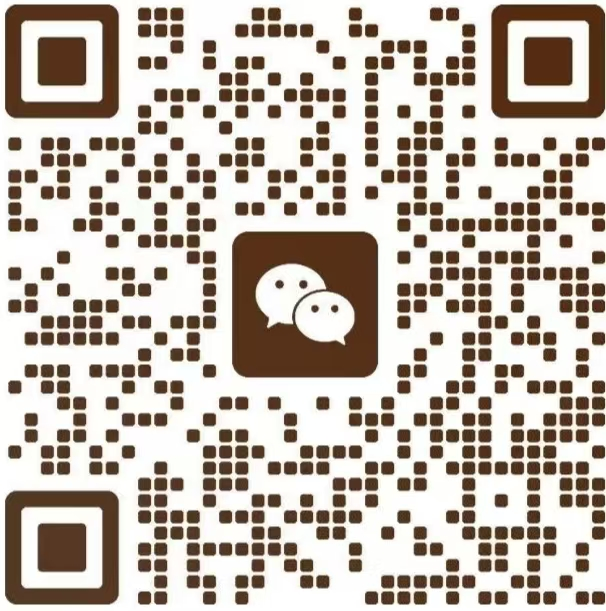
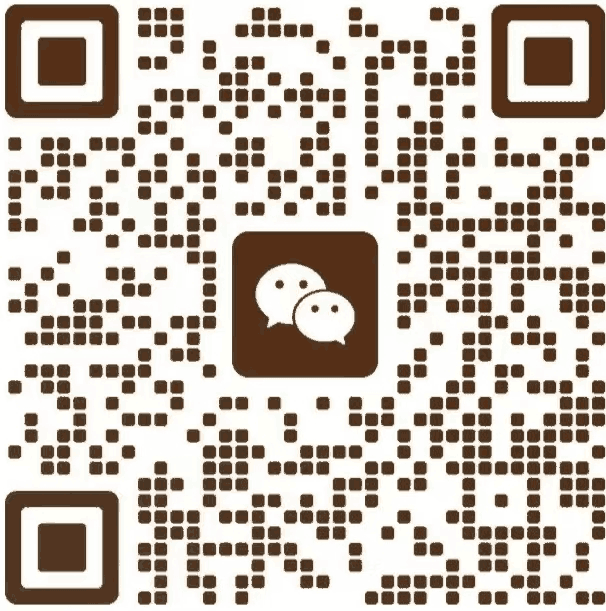
perf(images): 压缩 gllogistics.net 全站图片，总量 23.8MB->~1.8MB，首页负载~9.4MB->~0.5MB

diff --git a/service-zones.html b/service-zones.html
@@ -35,7 +35,7 @@
 
 <!-- Page Hero -->
 <section class="page-hero">
-  <img src="images/hero-zones.png" alt="Global Logistics Network Map">
+  <img src="images/hero-zones.jpg" alt="Global Logistics Network Map">
 </section>
 
 <!-- Service Zones Content -->
@@ -54,21 +54,21 @@
 
       <!-- Oceania -->
       <div class="col-card">
-        <img src="images/map-oceania.png" alt="Oceania Service Area — Australia & Pacific Islands Map">
+        <img src="images/map-oceania.jpg" alt="Oceania Service Area — Australia & Pacific Islands Map">
         <h3 data-i18n="zones.oceania.title">Oceania — Pacific Islands</h3>
         <p data-i18n="zones.oceania.desc">Covers mainland Australia, connecting New Zealand, Fiji, Papua New Guinea and other South Pacific islands. We own self-operated terminals, warehousing with full end-to-end logistics coverage, offering full container (FCL), LCL, loose cargo, low-platform containers and all-category container shipping. Our seasoned customs clearance team handles commodity classification, securing construction, door-to-door delivery, ensuring direct door-to-door overseas buyers. We also provide synchronized supply-chain financial support.</p>
       </div>
 
       <!-- Middle East -->
       <div class="col-card">
-        <img src="images/map-mideast.png" alt="Middle East & North Africa Service Area Map">
+        <img src="images/map-mideast.jpg" alt="Middle East & North Africa Service Area Map">
         <h3 data-i18n="zones.mideast.title">Middle East &amp; North Africa</h3>
         <p data-i18n="zones.mideast.desc">We specialize in core trade lanes linking the Middle East, Europe and Africa, with self-owned warehouses in Dubai and Doha that facilitate distribution across GCC nations, North, East and West Africa's major ports. We cater to large-scale infrastructure projects, offering piling vessel chartering, bulk cargo shipping, as well as door-to-port double-clearance tax-inclusive one-stop-logistics solutions.</p>
       </div>
 
       <!-- Africa -->
       <div class="col-card">
-        <img src="images/map-africa.png" alt="Africa Full Coverage Service Area Map">
+        <img src="images/map-africa.jpg" alt="Africa Full Coverage Service Area Map">
         <h3 data-i18n="zones.africa.title">Africa — Full Coverage</h3>
         <p data-i18n="zones.africa.desc">We provide all-round customs clearance, document handling and tax declaration services for global destinations, including booking for FCL &amp; LCL sea freight, truck haulage, customers' declaration, single and double-clearance tax-inclusive packages. Our all-in-one cross-border logistics chain covers customs clearance, haulage and last-mile delivery, unlocking booming infrastructure trade opportunities in Africa.</p>
       </div>

diff --git a/index.html b/index.html
@@ -37,7 +37,7 @@
 
 <!-- Hero Banner -->
 <section class="hero">
-  <img src="images/hero-home.png" alt="International Transportation Logistics — Airplane and Cargo Ship">
+  <img src="images/hero-home.jpg" alt="International Transportation Logistics — Airplane and Cargo Ship">
   <div class="hero-overlay">
     <h1 data-i18n="home.hero.title">International Logistics</h1>
     <p data-i18n="home.hero.sub">Reliable Freight Forwarding Across Oceania, Middle East &amp; Africa</p>
@@ -71,7 +71,7 @@
 
 <!-- Full-width Banner -->
 <section class="full-banner">
-  <img src="images/banner-highway.png" alt="Professional Transportation & Logistics Highway">
+  <img src="images/banner-highway.jpg" alt="Professional Transportation & Logistics Highway">
   <div class="banner-text">
     <h2 data-i18n="home.banner.title">Professional Transportation &amp; Logistics</h2>
     <p data-i18n="home.banner.sub">Smooth Shipping for You All the Way</p>

diff --git a/contact.html b/contact.html
@@ -35,7 +35,7 @@
 
 <!-- Highway Banner -->
 <section class="full-banner">
-  <img src="images/banner-highway.png" alt="Professional Transportation & Logistics — Highway">
+  <img src="images/banner-highway.jpg" alt="Professional Transportation & Logistics — Highway">
   <div class="banner-text">
     <h2 data-i18n="home.banner.title">Professional Transportation &amp; Logistics</h2>
     <p data-i18n="home.banner.sub">Smooth Shipping for You All the Way</p>

diff --git a/about.html b/about.html
@@ -35,7 +35,7 @@
 
 <!-- Hero: Container Ship -->
 <section class="page-hero">
-  <img src="images/hero-about.png" alt="About GREENLINE LOGISTICS — Container Ship at Port">
+  <img src="images/hero-about.jpg" alt="About GREENLINE LOGISTICS — Container Ship at Port">
 </section>
 
 <!-- About Content -->

diff --git a/service.html b/service.html
@@ -35,7 +35,7 @@
 
 <!-- Hero: Ship -->
 <section class="page-hero">
-  <img src="images/hero-service.png" alt="Sea Transportation — Cargo Ship at Sea">
+  <img src="images/hero-service.jpg" alt="Sea Transportation — Cargo Ship at Sea">
 </section>
 
 <!-- Service Cards -->
